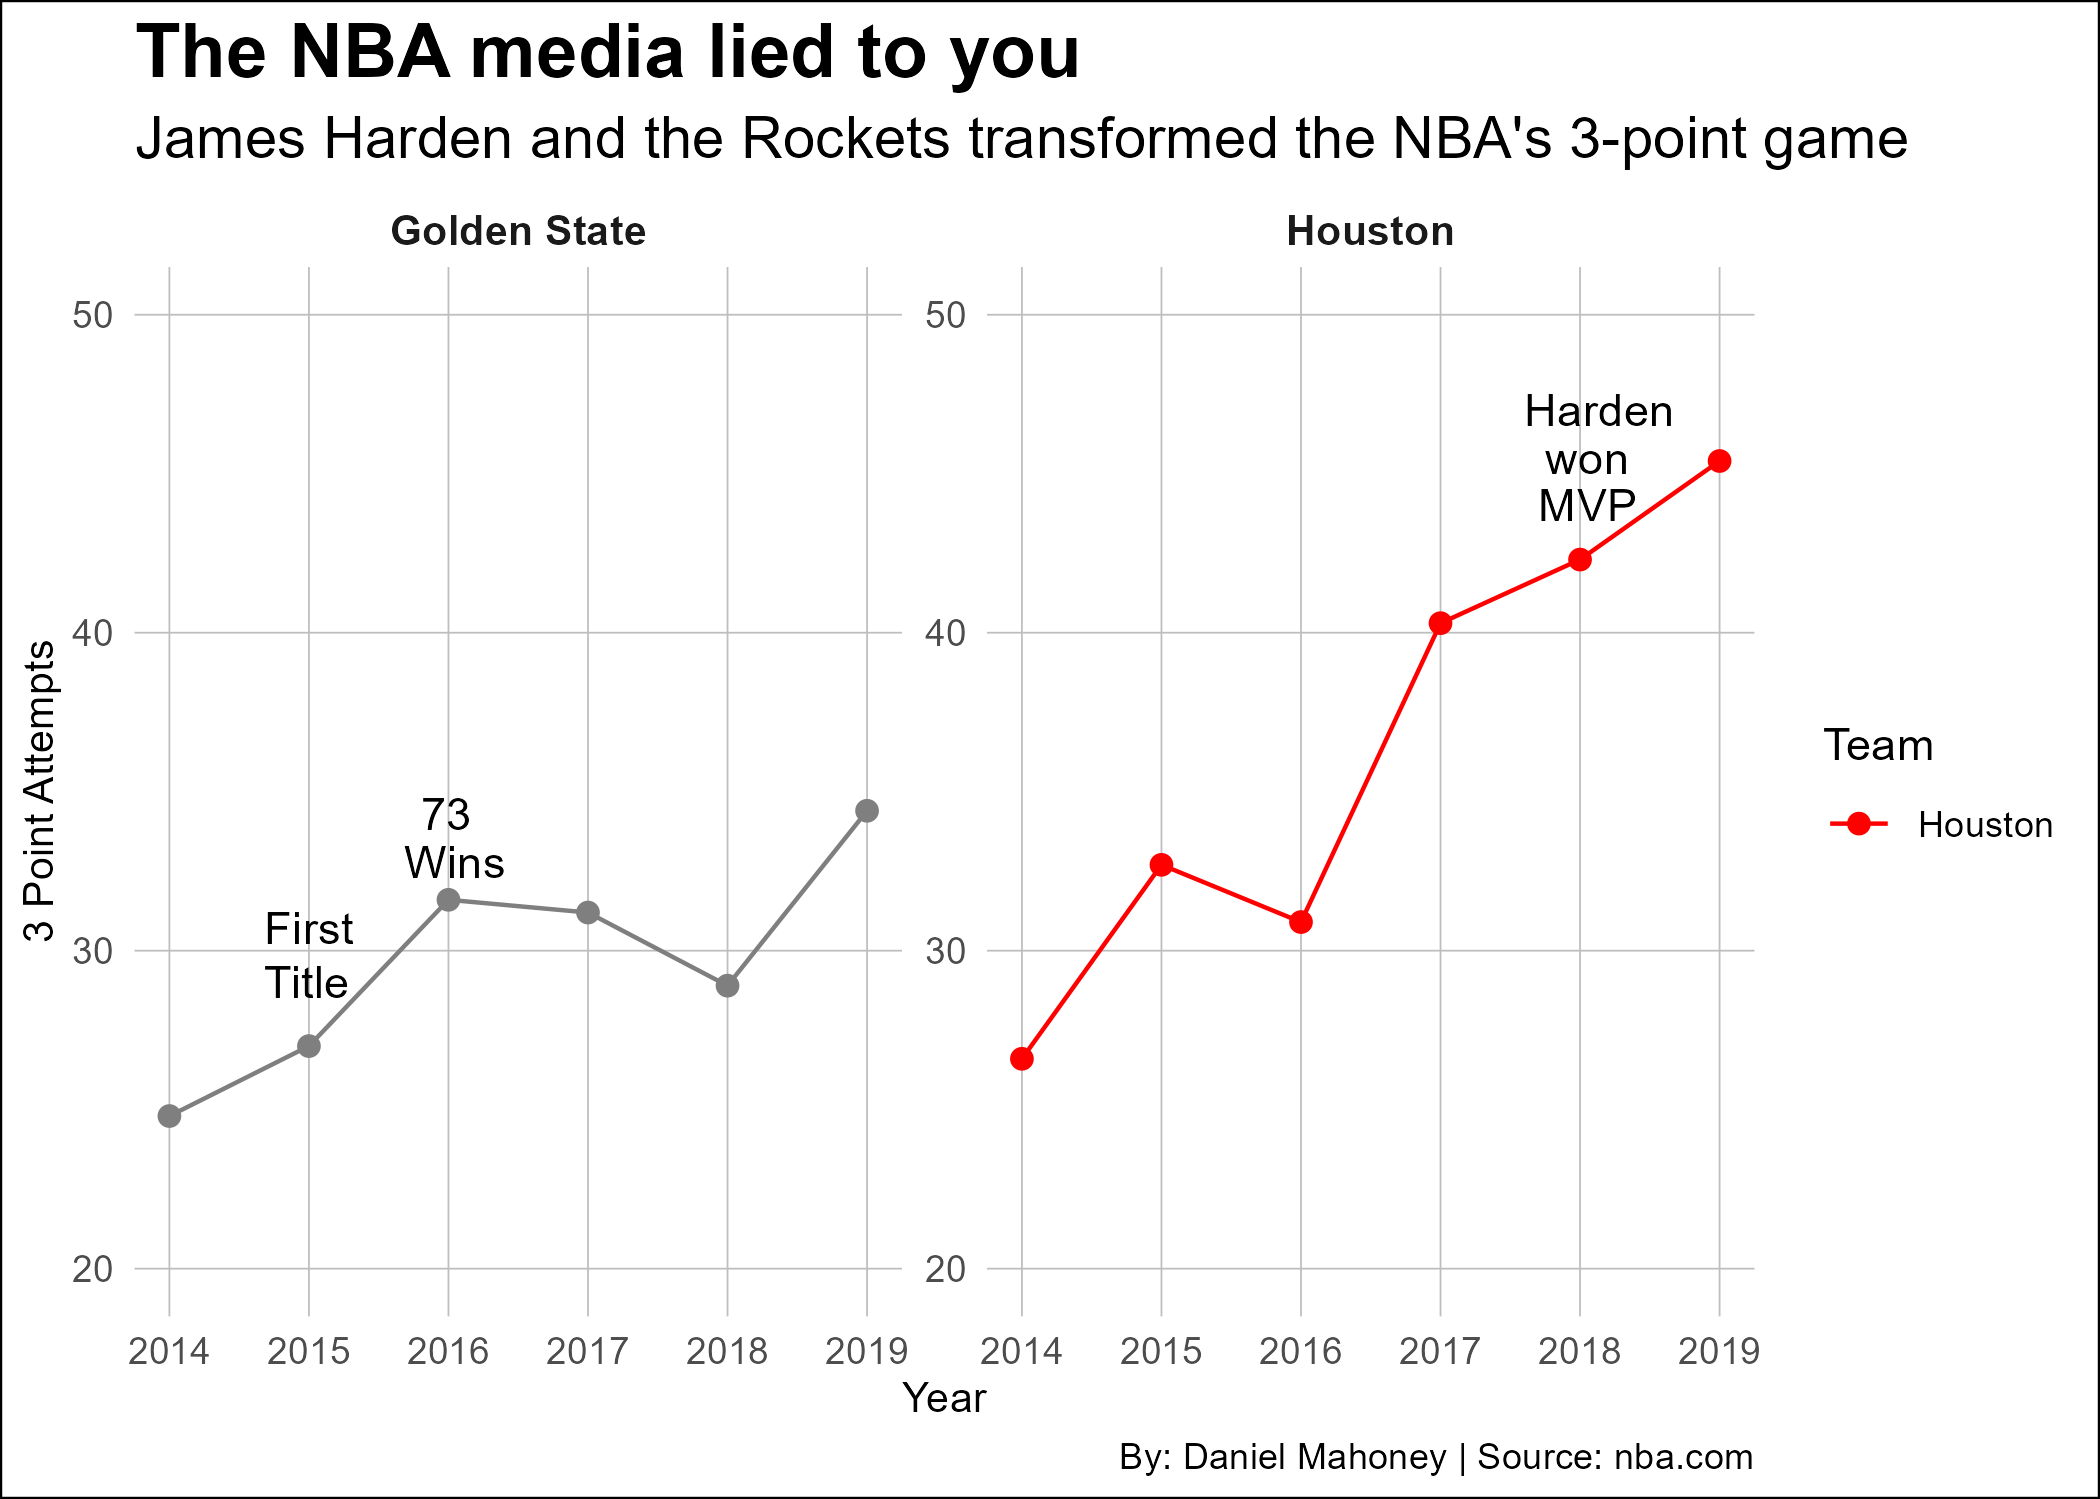
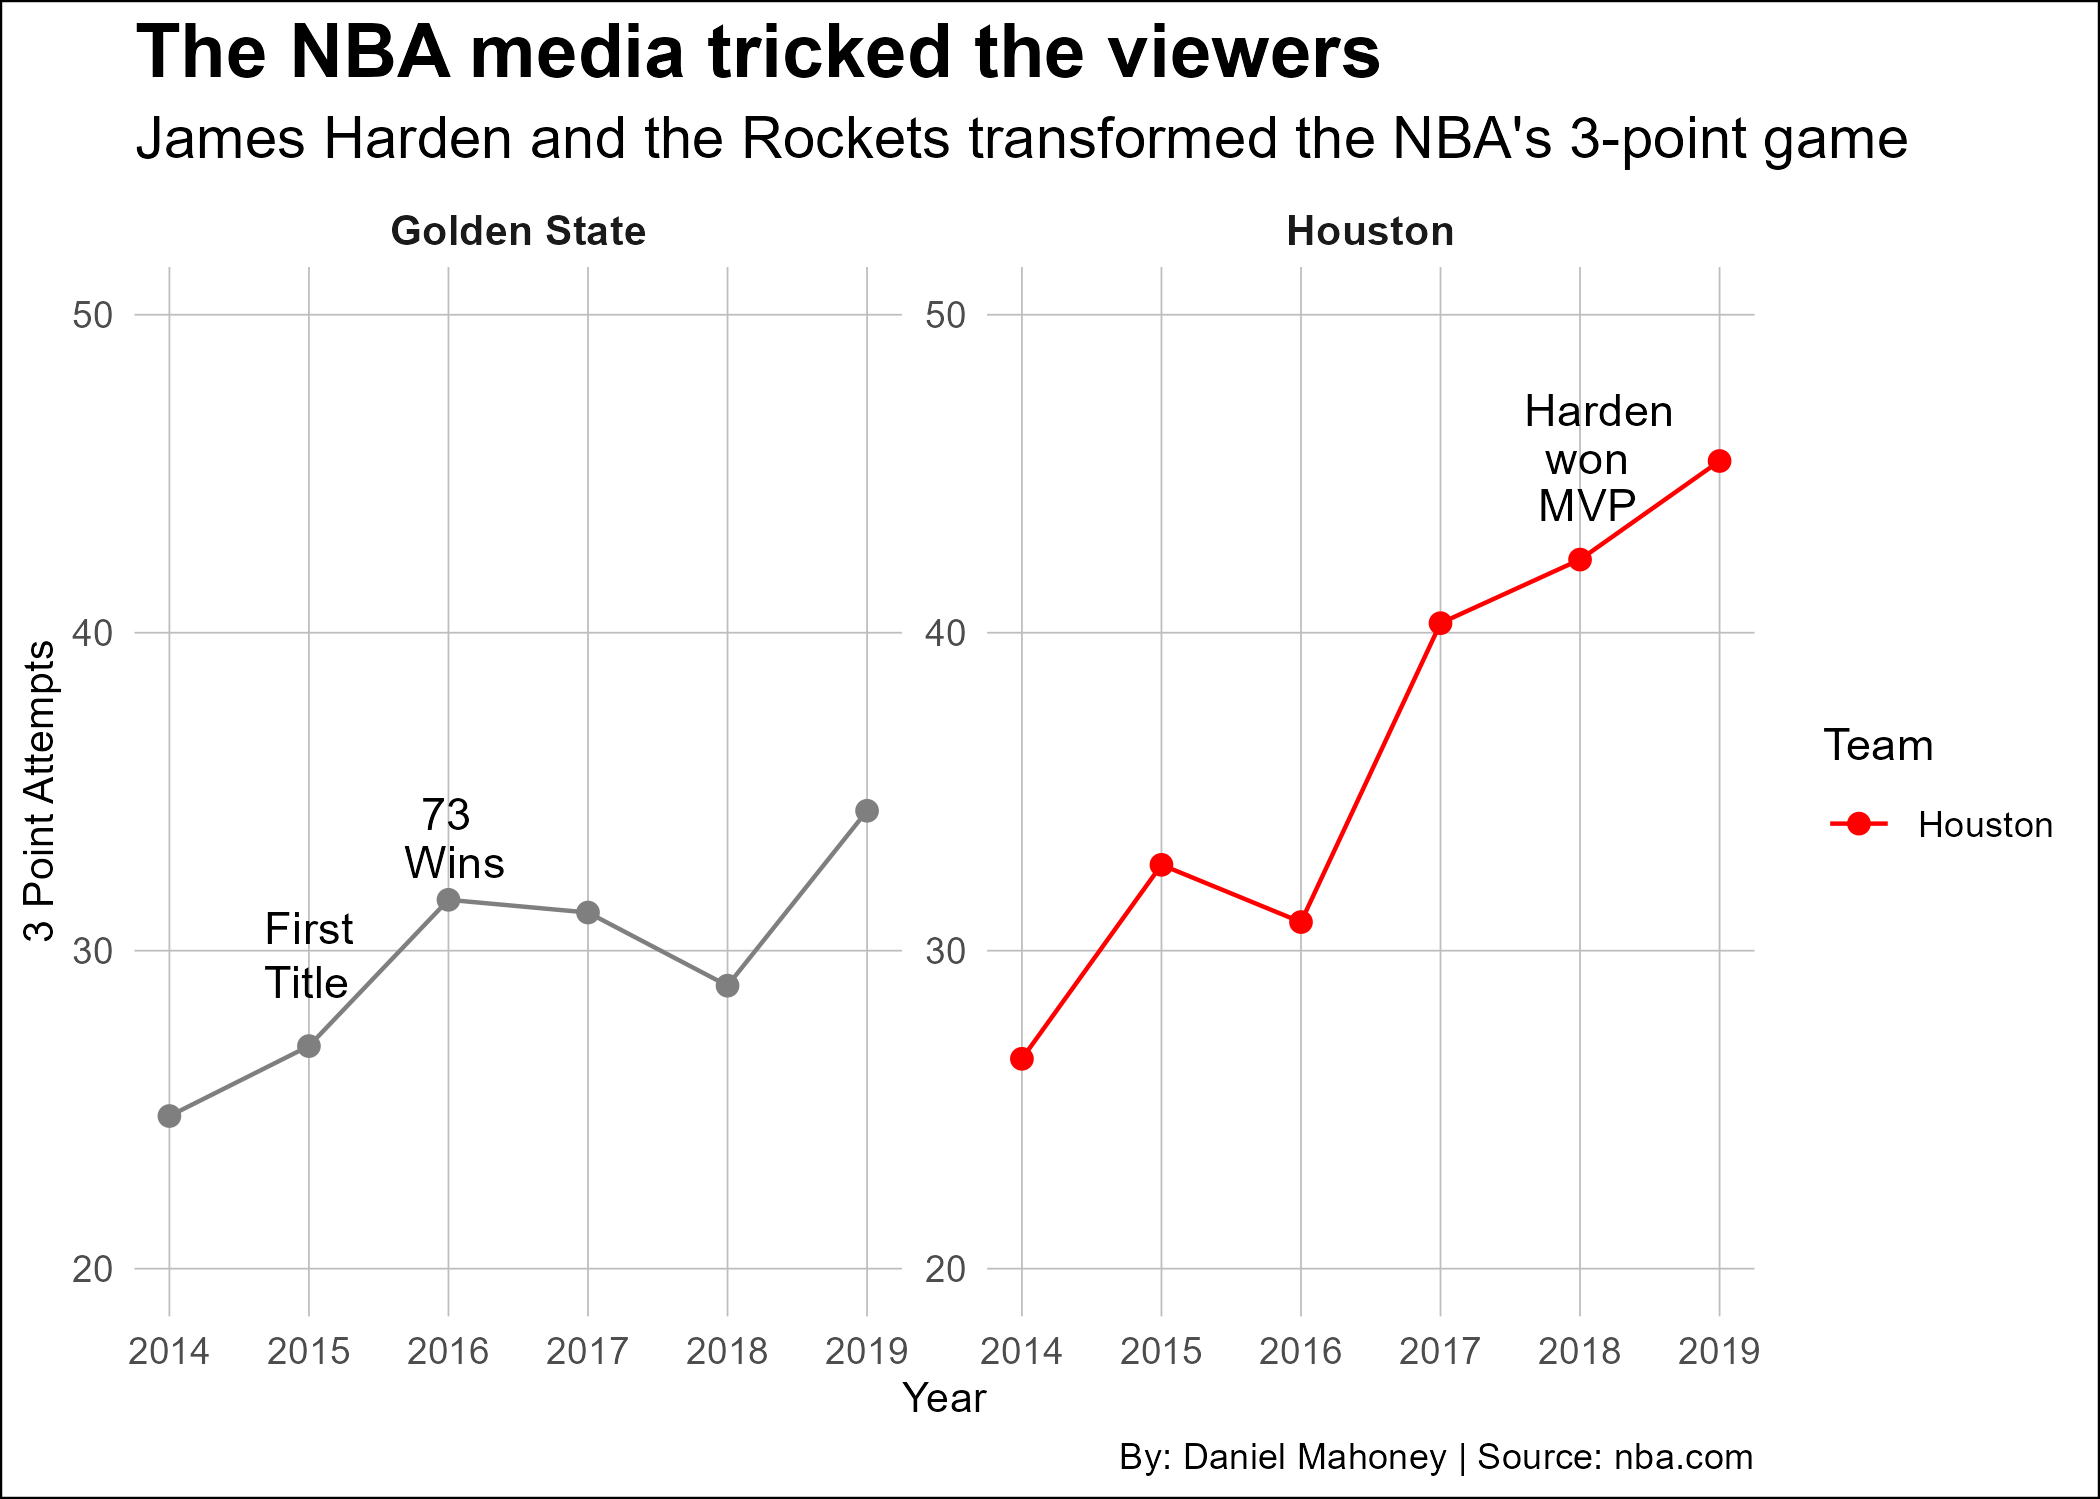
update index.html

Changed region(s): [[0.3405, 0.0, 0.681, 0.0614]]

diff --git a/posts/three-point-revolution/index.html b/posts/three-point-revolution/index.html
@@ -221,7 +221,7 @@ pre > code.sourceCode > span > a:first-child::before { text-decoration: underlin
 <span id="cb1-18"><a href="#cb1-18" aria-hidden="true" tabindex="-1"></a>  <span class="fu">scale_y_continuous</span>(<span class="at">limits =</span> <span class="fu">c</span>(<span class="dv">20</span>, <span class="dv">50</span>)) <span class="sc">+</span>  </span>
 <span id="cb1-19"><a href="#cb1-19" aria-hidden="true" tabindex="-1"></a>  <span class="fu">facet_wrap</span>(<span class="sc">~</span>Team, <span class="at">scales =</span> <span class="st">"free_y"</span>, <span class="at">ncol =</span> <span class="dv">4</span>) <span class="sc">+</span>  </span>
 <span id="cb1-20"><a href="#cb1-20" aria-hidden="true" tabindex="-1"></a>  <span class="fu">labs</span>(</span>
-<span id="cb1-21"><a href="#cb1-21" aria-hidden="true" tabindex="-1"></a>    <span class="at">title =</span> <span class="st">"The NBA media lied to you"</span>,</span>
+<span id="cb1-21"><a href="#cb1-21" aria-hidden="true" tabindex="-1"></a>    <span class="at">title =</span> <span class="st">"The NBA media tricked the viewers"</span>,</span>
 <span id="cb1-22"><a href="#cb1-22" aria-hidden="true" tabindex="-1"></a>    <span class="at">subtitle =</span> <span class="st">"James Harden and the Rockets transformed the NBA's 3-point game"</span>,</span>
 <span id="cb1-23"><a href="#cb1-23" aria-hidden="true" tabindex="-1"></a>    <span class="at">y =</span> <span class="st">"3 Point Attempts"</span>, <span class="at">x =</span> <span class="st">"Year"</span>,</span>
 <span id="cb1-24"><a href="#cb1-24" aria-hidden="true" tabindex="-1"></a>    <span class="at">caption =</span> <span class="st">"By: Daniel Mahoney | Source: nba.com"</span></span>

diff --git a/index.html b/index.html
@@ -205,7 +205,7 @@ window.Quarto = {
 
 <div class="quarto-listing quarto-listing-container-default" id="listing-listing">
 <div class="list quarto-listing-default">
-<div class="quarto-post image-right" data-index="0" data-categories="YmFza2V0YmFsbCxuYmEsc3RlcGgsamFtZXM=" data-listing-date-sort="1733724000000" data-listing-file-modified-sort="1733776217342" data-listing-date-modified-sort="NaN" data-listing-reading-time-sort="16" data-listing-word-count-sort="3194">
+<div class="quarto-post image-right" data-index="0" data-categories="YmFza2V0YmFsbCxuYmEsc3RlcGgsamFtZXM=" data-listing-date-sort="1733724000000" data-listing-file-modified-sort="1733776839675" data-listing-date-modified-sort="NaN" data-listing-reading-time-sort="16" data-listing-word-count-sort="3194">
 <div class="thumbnail">
 <p><a href="./posts/three-point-revolution/index.html" class="no-external"></a></p><a href="./posts/three-point-revolution/index.html" class="no-external">
 <p><img loading="lazy" src="./posts/three-point-revolution/image.png" class="thumbnail-image"></p>
